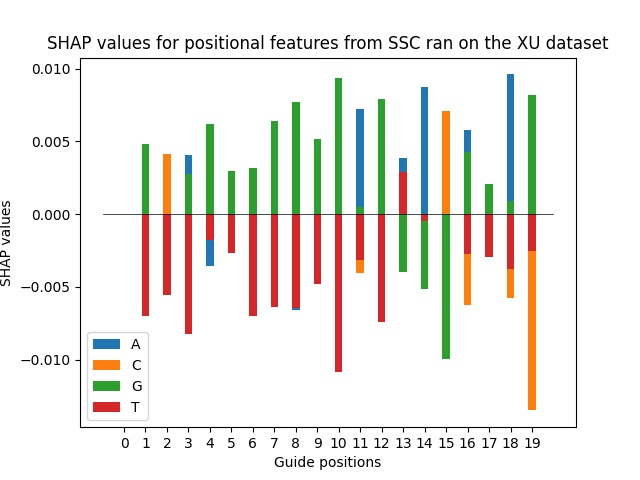
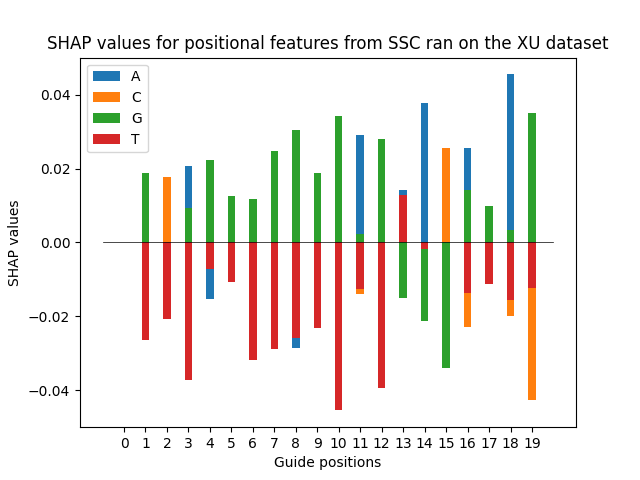
only positive in average

diff --git a/src/utils.py b/src/utils.py
@@ -76,9 +76,68 @@ def getFeatureNames(fileName):
     featureNames = tool.loadFeatureNames()
     return featureNames
 
-#from a given pickle file name
-#takes out the shap values of all the data points and averages out by feature
-#returns a list of tuples (shap val, feature name)
+
+#gets the 30-nucleotide sequences from the dataset (Xu / Doench)
+def getDataset(datasetName, toolName):
+    if datasetName == 'xu':
+        #WHERE THE DATASET IS
+        INPUT_FILE_NAME = "../datasets/Xu-2015_Is-Efficient.csv"
+        GUIDE_INDEX = 4 #column of the guide in the file
+
+        # Used for extracting the guide from the CSV format
+        if (toolName in ['tuscan-regression','tuscan-classification']): #Tuscan has a special extraction of data since it uses context around the guide
+            GUIDE_START_POS = 10 - 4
+            GUIDE_LEN = 23 + 4 + 3 # TUSCAN considers nucleotides 4 upstream, 3 upstream from guide (?=([ACTG]{25}GG[ACTG]{3}))
+        elif toolName == 'wu-crispr': #it needs 3 more nucleotides after the guide
+            GUIDE_START_POS = 10
+            GUIDE_LEN = 23 + 3
+        elif toolName == 'ssc': #it doesn't take the PAM
+            GUIDE_START_POS = 10
+            GUIDE_LEN = 20
+        else: #default for all the other tools
+            GUIDE_INDEX = 4
+            GUIDE_START_POS = 10
+            GUIDE_LEN = 23
+
+    elif datasetName =='doench':
+        #where the dataset is
+        INPUT_FILE_NAME = "../datasets/Doench-2014.csv"
+        GUIDE_INDEX = 1 #column of the quide in the file
+
+        #Used for extracting the guide from CSV format
+        # Used for extracting the guide from the CSV format
+        if (toolName in ['tuscan-regression','tuscan-classification']): #Tuscan has a special extraction of data since it uses context around the guide
+            GUIDE_START_POS = 0
+            GUIDE_LEN = 23 + 4 + 3 # TUSCAN considers nucleotides 4 upstream, 3 upstream from guide (?=([ACTG]{25}GG[ACTG]{3}))
+        elif toolName == 'wu-crispr': #it needs 3 more nucleotides after the guide
+            GUIDE_START_POS = 4
+            GUIDE_LEN = 23 + 3
+        elif toolName == 'ssc': #it doesn't take the PAM
+            GUIDE_START_POS = 4
+            GUIDE_LEN = 20
+        else: #default for all the other tools
+            GUIDE_START_POS = 4
+            GUIDE_LEN = 23
+    else:
+        print("Dataset not supported")
+        quit()
+
+    #read in sequences
+    sequences = []
+    with open(INPUT_FILE_NAME, 'r') as fRead:
+        # read each line - file contains header and blank footer - then break apart by comma
+        for line in [x.split(',') for x in fRead.read().split('\n')[1:-1]]:
+            guideSeq = line[GUIDE_INDEX][GUIDE_START_POS:(GUIDE_START_POS + GUIDE_LEN)]
+            sequences.append(guideSeq)
+    return sequences
+
+
+
+# from a given pickle file name
+# takes out the shap values of all the data points and averages out by feature
+# ONLY considers positional features
+# ONLY considers the data points which have the feature value to  1
+# returns a list of tuples (shap val, feature name)
 def getAvgShapValues(fileName):
 
     #load the SHAP values and the data
@@ -91,23 +150,67 @@ def getAvgShapValues(fileName):
     #feature names for the tool the pickle was created with
     featureNames = getFeatureNames( fileName )
 
+    #the original sequences
+    sequences = getDataset(getDatasetName(fileName),getToolName(fileName))
+
     #calculate the average shap value across all datapoints for a feature
     print("Calculating averages...")
     avgShapVals = [0] * len(featureNames) #initialise
+    howMany = [0] * len(featureNames) #how many points have 1 values for this feature
 
     #shapValues = dataset x features
     for d in range(0,len(dataset)):
         for f in range(0,len(featureNames)):
-            avgShapVals[f] = avgShapVals[f] + shapValues[d][f] #add the value from this datapoint
+
+            featureName = featureNames[f]
+            m = parsePositionalFeature(featureName)
+
+            if m == None: #not a positional feature => get normal average
+                avgShapVals[f] = avgShapVals[f] + shapValues[d][f] #add the value from this datapoint
+                howMany[f] = -1
+                continue
+
+            pos = int( (m.group('pos')) )
+            nuc = nucleotides.index(m.group('nuc')) # A:0, C:1, G:2, T:3
+
+            if (sequences[d][pos] == nucleotides[nuc]): #yes, the feature has a 1 value for this data point
+                avgShapVals[f] = avgShapVals[f] + shapValues[d][f]
+                howMany[f] = howMany[f] + 1
+
 
     #average out the sum
-    avgShapVals = [ v / len(dataset) for v in avgShapVals]
+    for v in range(0,len(avgShapVals)):
+        if howMany[v] == -1: #not positional
+            avgShapVals[v] = avgShapVals[v] / len(dataset)
+        elif howMany[v] == 0: #no datapoints have positive value
+            avgShapVals[v] = 0
+        else: #average over positives
+            avgShapVals[v] = avgShapVals[v] / howMany[v]
+
 
     featureImp = sorted( zip(avgShapVals,featureNames) , key = lambda t: abs(t[0])) #zip with the feature names and sort
     #featureImp = featureImp[-20:] # take the top 20 highest values <=> most important 20 features
     featureImp = list(reversed(featureImp)) #order from most important to least important
 
     return featureImp
+
+
+
+def parsePositionalFeature(featureName):
+
+    if 'PAM' in featureName or '_p' in featureName or '_lf' in featureName or '_rf' in featureName: #ignore because we don't account for pam, right or left positions
+        return None
+
+    #matching the feature name to something containing position-nucleotide [only one nucleotide!]
+    #(position) (maybe :) (nucleotide) (anything but another nucleotide)
+    m = re.match(r"((.*)[^0-9])?(?P<pos>((\d)(\d)*))(:)?(?P<nuc>[ACGT])([^ACGT](.*))?$", featureName)
+
+    if m == None: #maybe the position and nucleotide are in reverse order
+        #(something + not a nucleotide or start) (nucleotide) (maybe :) (pos) (not digit + something or end)
+        m = re.match(r"^((.*)[^ACGT])?(?P<nuc>[ACGT])(:)?(?P<pos>((\d)(\d)*))([^0-19](.*))?$", featureName)
+
+    return m
+
 
 #given a list of feature importances as tuples (shap val, feature name)
 #extracts the positional features (pos:nucleotide)
@@ -120,16 +223,7 @@ def getShapValsForPosFeatures(featureImp):
         featureValue = f[0] #the shapley value of this feature
         featureName = f[1] #the name of this feature
 
-        if 'PAM' in featureName or '_p' in featureName or '_lf' in featureName or '_rf' in featureName: #ignore because we don't account for pam, right or left positions
-            continue
-
-        #matching the feature name to something containing position-nucleotide [only one nucleotide!]
-        #(position) (maybe :) (nucleotide) (anything but another nucleotide)
-        m = re.match(r"((.*)[^0-9])?(?P<pos>((\d)(\d)*))(:)?(?P<nuc>[ACGT])([^ACGT](.*))?$", featureName)
-
-        if m == None: #maybe the position and nucleotide are in reverse order
-            #(something + not a nucleotide or start) (nucleotide) (maybe :) (pos) (not digit + something or end)
-            m = re.match(r"^((.*)[^ACGT])?(?P<nuc>[ACGT])(:)?(?P<pos>((\d)(\d)*))([^0-19](.*))?$", featureName)
+        m = parsePositionalFeature(featureName)
 
         if m == None: #not a positional feature
             continue

diff --git a/src/computeShapVals.py b/src/computeShapVals.py
@@ -6,60 +6,7 @@ import sys
 import numpy as np
 
 from utils import getToolObject
-
-#gets the 30-nucleotide sequences from the dataset (Xu / Doench)
-def getDataset(datasetName, toolName):
-    if datasetName == 'xu':
-        #WHERE THE DATASET IS
-        INPUT_FILE_NAME = "../datasets/Xu-2015_Is-Efficient.csv"
-        GUIDE_INDEX = 4 #column of the guide in the file
-
-        # Used for extracting the guide from the CSV format
-        if (toolName in ['tuscan-regression','tuscan-classification']): #Tuscan has a special extraction of data since it uses context around the guide
-            GUIDE_START_POS = 10 - 4
-            GUIDE_LEN = 23 + 4 + 3 # TUSCAN considers nucleotides 4 upstream, 3 upstream from guide (?=([ACTG]{25}GG[ACTG]{3}))
-        elif toolName == 'wu-crispr': #it needs 3 more nucleotides after the guide
-            GUIDE_START_POS = 10
-            GUIDE_LEN = 23 + 3
-        elif toolName == 'ssc': #it doesn't take the PAM
-            GUIDE_START_POS = 10
-            GUIDE_LEN = 20
-        else: #default for all the other tools
-            GUIDE_INDEX = 4
-            GUIDE_START_POS = 10
-            GUIDE_LEN = 23
-
-    elif datasetName =='doench':
-        #where the dataset is
-        INPUT_FILE_NAME = "../datasets/Doench-2014.csv"
-        GUIDE_INDEX = 1 #column of the quide in the file
-
-        #Used for extracting the guide from CSV format
-        # Used for extracting the guide from the CSV format
-        if (toolName in ['tuscan-regression','tuscan-classification']): #Tuscan has a special extraction of data since it uses context around the guide
-            GUIDE_START_POS = 0
-            GUIDE_LEN = 23 + 4 + 3 # TUSCAN considers nucleotides 4 upstream, 3 upstream from guide (?=([ACTG]{25}GG[ACTG]{3}))
-        elif toolName == 'wu-crispr': #it needs 3 more nucleotides after the guide
-            GUIDE_START_POS = 4
-            GUIDE_LEN = 23 + 3
-        elif toolName == 'ssc': #it doesn't take the PAM
-            GUIDE_START_POS = 4
-            GUIDE_LEN = 20
-        else: #default for all the other tools
-            GUIDE_START_POS = 4
-            GUIDE_LEN = 23
-    else:
-        print("Dataset not supported")
-        quit()
-
-    #read in sequences
-    sequences = []
-    with open(INPUT_FILE_NAME, 'r') as fRead:
-        # read each line - file contains header and blank footer - then break apart by comma
-        for line in [x.split(',') for x in fRead.read().split('\n')[1:-1]]:
-            guideSeq = line[GUIDE_INDEX][GUIDE_START_POS:(GUIDE_START_POS + GUIDE_LEN)]
-            sequences.append(guideSeq)
-    return sequences
+from utils import getDataset
 
 
 #runs the Shapley Value analysis on the requested dataset and tool
@@ -67,7 +14,7 @@ def main(toolName,datasetName):
 
     tool = getToolObject(toolName)
 
-    #load the dataset [used as daa in shapley plot]
+    #load the dataset [used as data in shapley plot]
     sequences = getDataset(datasetName, toolName)
     print("Loaded the dataset " + datasetName + " of " + str(len(sequences)) + " data points.")
 

diff --git a/src/comparePositionTools.py b/src/comparePositionTools.py
@@ -9,55 +9,58 @@ tools = ['ssc' ,'tuscan-classification', 'wu-crispr'] #'tuscan-regression'] #,'s
 #the datasets these tools were ran on
 datasets = ['xu']#,'doench']
 
-labels = range(0,20)
-x = np.arange(len(labels))  # the label locations
-width = 0.8  # the width of the bars
-totalspacer = 1 - width
-
-spacer = totalspacer / (len(tools)*len(datasets))
-barwidth = width / (len(tools)*len(datasets))
-
+#setting up for plotting
+positions = range(0,20)
+x = np.arange(len(positions))  # the label locations
+width = 0.8  # the width of the bars together
+barwidth = width / (len(tools)*len(datasets)) #the width of a single bar
 fig, ax = plt.subplots()
 
-positions = range(0,20)
-
+#add separators for each position in the guide
 for p in range(0,21):
     plt.axvline(x=p, color="black",linewidth=0.2)
 
-tool_positions = []
-tool_labels = []
+tool_positions = [] #where the tool name is to be placed
+tool_labels = [] #what the tool name is
+
+#plotting data method by method
 cnt = 0
 for tool in tools:
     for data in datasets:
-        pickleFileName = "SHAP-" + tool + "-" + data
 
+        #load data from pickle
+        pickleFileName = "SHAP-" + tool + "-" + data
         #get a list of tuples (avg shap val, feature name)
         featureImp = getAvgShapValues(pickleFileName)
-
         #creates dictionary where average[nucleotide id][position] = the average shap value of the nucleotide being at that position
         averages = getShapValsForPosFeatures(featureImp) #function def in utils
 
-        #plot
+        #plot the values of each nucleotide at x_coord
         x_coord = x + spacer + barwidth/2 + barwidth*cnt
         pA = ax.bar(x_coord, averages[0], barwidth, color="#1f77b4")
         pC = ax.bar(x_coord, averages[1], barwidth, color="#ff7f0e")
         pG = ax.bar(x_coord, averages[2], barwidth, color="#2ca02c")
         pT = ax.bar(x_coord, averages[3], barwidth, color="#d62728")
 
+        #add the name of the tool under each bar [will use the two arrays for this later]
         for xp in x_coord:
             tool_positions.append(xp)
             tool_labels.append( getShorthand(tool) )
 
         cnt = cnt+1
 
+#plot names of tools at the bottom
 plt.xticks(tool_positions, tool_labels, rotation='vertical')
 
+#plot the number of the guide position at the top
 ax_t = ax.secondary_xaxis('top')
 ax_t.tick_params(axis='x', direction='out', width=0, length=0, color="#D3D3D3")
 ax_t.set_xticks([p + 0.5 for p in positions])
 ax_t.set_xticklabels(positions)
 
-plt.plot(range(-1,21), [0]*22, color='black', linewidth=0.2) #plot a line at 0
+#plot a line at 0
+plt.plot(range(-1,21), [0]*22, color='black', linewidth=0.2)
+
 
 plt.ylabel("SHAP values")
 plt.xlabel("Tools ran on XU")

diff --git a/src/shapToHeatMap.py b/src/shapToHeatMap.py
@@ -2,12 +2,13 @@ from utils import *
 import pandas as pd
 import matplotlib.pyplot as plt
 import seaborn as sns
+from utils import getDataset
 
 #all of the tools to be compared, including scoring methods and model types (tuscan, chop-chop)
-tools = ['ssc' ,'tuscan-classification', 'tuscan-regression', 'sgrnascorer2','wu-crispr','chop-chop-xu','chop-chop-doench','chop-chop-moreno']
+tools = ['ssc' , 'sgrnascorer2','chop-chop-xu','chop-chop-doench','chop-chop-moreno', 'wu-crispr', 'tuscan-classification', 'tuscan-regression']
 
 #the datasets these tools were ran on
-datasets = ['xu', 'doench']
+datasets = ['doench'] #, 'doench']
 
 #the feature names to be printed
 features = []
@@ -25,7 +26,7 @@ for tool in tools:
         methodName = getShorthand(tool) + '-' + data
 
         #get a list of tuples (avg shap val, feature name)
-        featureImp = getAvgShapValues(pickleFileName)
+        featureImp = getPositiveShapValues(pickleFileName)
 
         #creates dictionary where average[nucleotide id][position] = the average shap value of the nucleotide being at that position
         averages = getShapValsForPosFeatures(featureImp) #function def in utils
@@ -49,7 +50,7 @@ df.to_csv('../results/avg_shap_vals.csv')
 
 #plot
 fig, ax = plt.subplots(figsize=(16,80))
-sns.heatmap(df, center=0)
+sns.heatmap(df, center=0,  cmap='coolwarm')
 ax.set_title("Average Shap Values Across Methods")
 plt.yticks(rotation=0)
 plt.xticks(range(0,len(features)),features)
